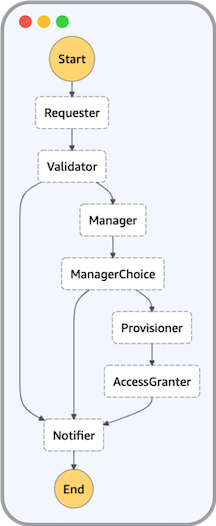
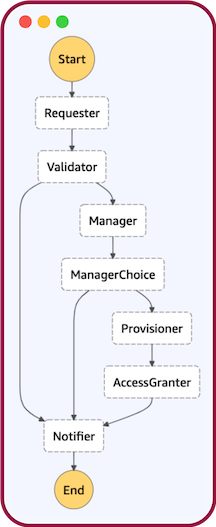
Update visual workflow diagrams and code snippets to have Maestro red border

diff --git a/assets/css/main.css b/assets/css/main.css
@@ -189,7 +189,7 @@ code {
 }
 
 code.dark {
-  border: 15px solid var(--color-dark-grey);
+  border: 2px solid var(--color-maestro-red);
   border-radius: 1rem;
   padding: 0.5vh 1vw;
 }
